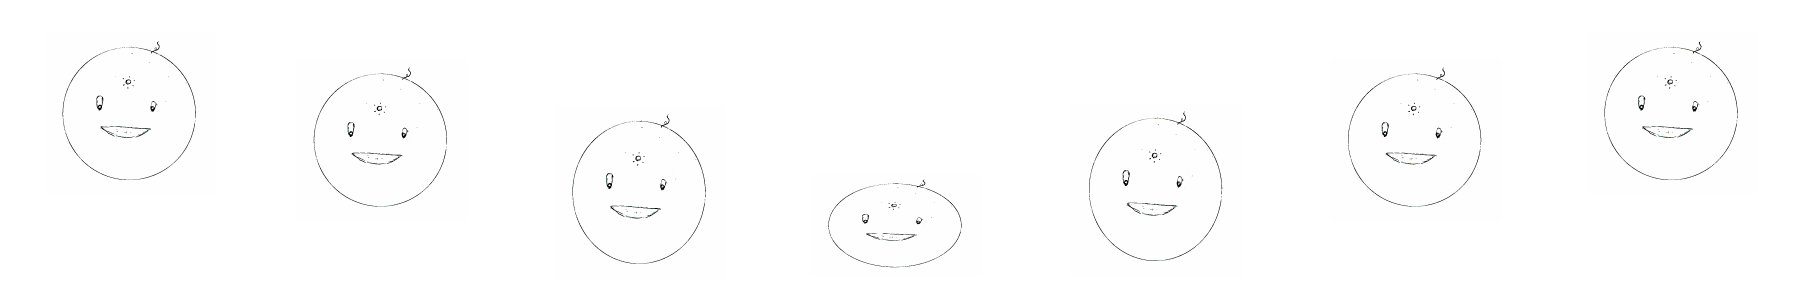
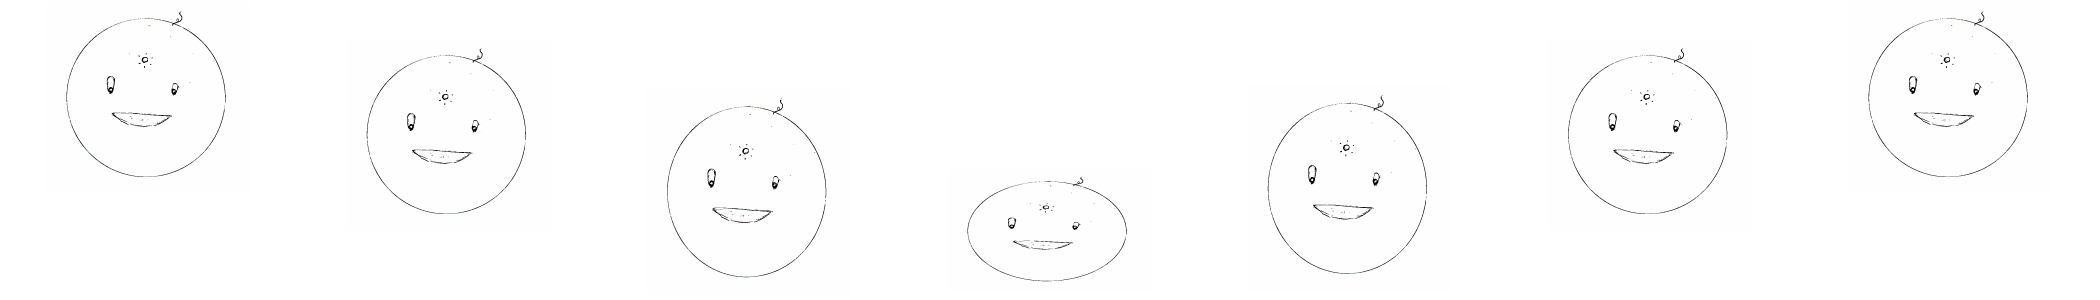
preloading animation complete. will add on complete event soon

diff --git a/js/states/boot.js b/js/states/boot.js
@@ -9,15 +9,8 @@ function Boot() {}
 Boot.prototype = {
 
   preload: function() {
-    game.load.image('ballerlogo', 'assets/ballerlogo.png');
-    game.load.image('startbutton', 'assets/startbutton.png');
-    game.load.image('ball', 'assets/ball.png', 400, 400);
-    game.load.image('player', 'assets/player.png', 400, 400);
-    game.load.image('gameogre', 'assets/gameogre.png', 500, 256);
-    game.load.image('single', 'assets/singleplayer.png');
-    game.load.image('multi', 'assets/multiplayer.png');
-    game.load.image('options', 'assets/options.png');
-    game.load.spritesheet('loading', 'assets/loading_ball.png', 300, 289);
+    game.load.spritesheet('loading', 'assets/loading.png', 200, 200);
+    game.load.spritesheet('loading_text', 'assets/loading_text.png', 524, 100);
     game.stage.backgroundColor = '#FFFFFF';
     //load preloader assets
   },
@@ -26,27 +19,24 @@ Boot.prototype = {
     //setup game environment
     //scale, input etc...
     // this.game.state.start('preload');
-    var logo = game.add.sprite(centerx, centery - 50, 'ballerlogo');
-    logo.anchor.setTo(0.5,0.5);
-    logo.scale.setTo(0.55,0.55);
 
-    var startgame = game.add.sprite(centerx, centery + 250, 'startbutton');
-    startgame.anchor.setTo(0.5,0.5);
-    startgame.scale.setTo(0.65,0.65);
-
-    game.physics.startSystem(Phaser.Physics.ARCADE);
     game.input.addPointer();
     cursors = game.input.keyboard.createCursorKeys();
+
+    var loadingBall = game.add.sprite(centerx, centery, 'loading');
+    loadingBall.anchor.setTo(0.5,0.5);
+    loadingBall.animations.add('bounce');
+    loadingBall.animations.play('bounce', 9, true);
+
+    var loadingText = game.add.sprite(centerx - 15, centery + 130, 'loading_text');
+    loadingText.scale.setTo(0.5, 0.5);
+    loadingText.anchor.setTo(0.5, 0.5);
+    loadingText.animations.add('textDotDotDot');
+    loadingText.animations.play('textDotDotDot', 2, true);
   },
 
   update: function() {
-        if (game.input.mousePointer.isDown)
-    { this.game.state.start('main_menu');
-    }
 
-    else if (game.input.pointer1.isDown) {
-      this.game.state.start('main_menu');
-    }
   }
 };
 

diff --git a/js/states/preload.js b/js/states/preload.js
@@ -24,6 +24,15 @@ Preload.prototype = {
     startgame.anchor.setTo(0.5,0.5);
     startgame.scale.setTo(0.65,0.65);
 
+  },
 
+  update: function() {
+    if (game.input.mousePointer.isDown)
+    { this.game.state.start('main_menu');
+    }
+
+    else if (game.input.pointer1.isDown) {
+      this.game.state.start('main_menu');
+    }
   }
 };
